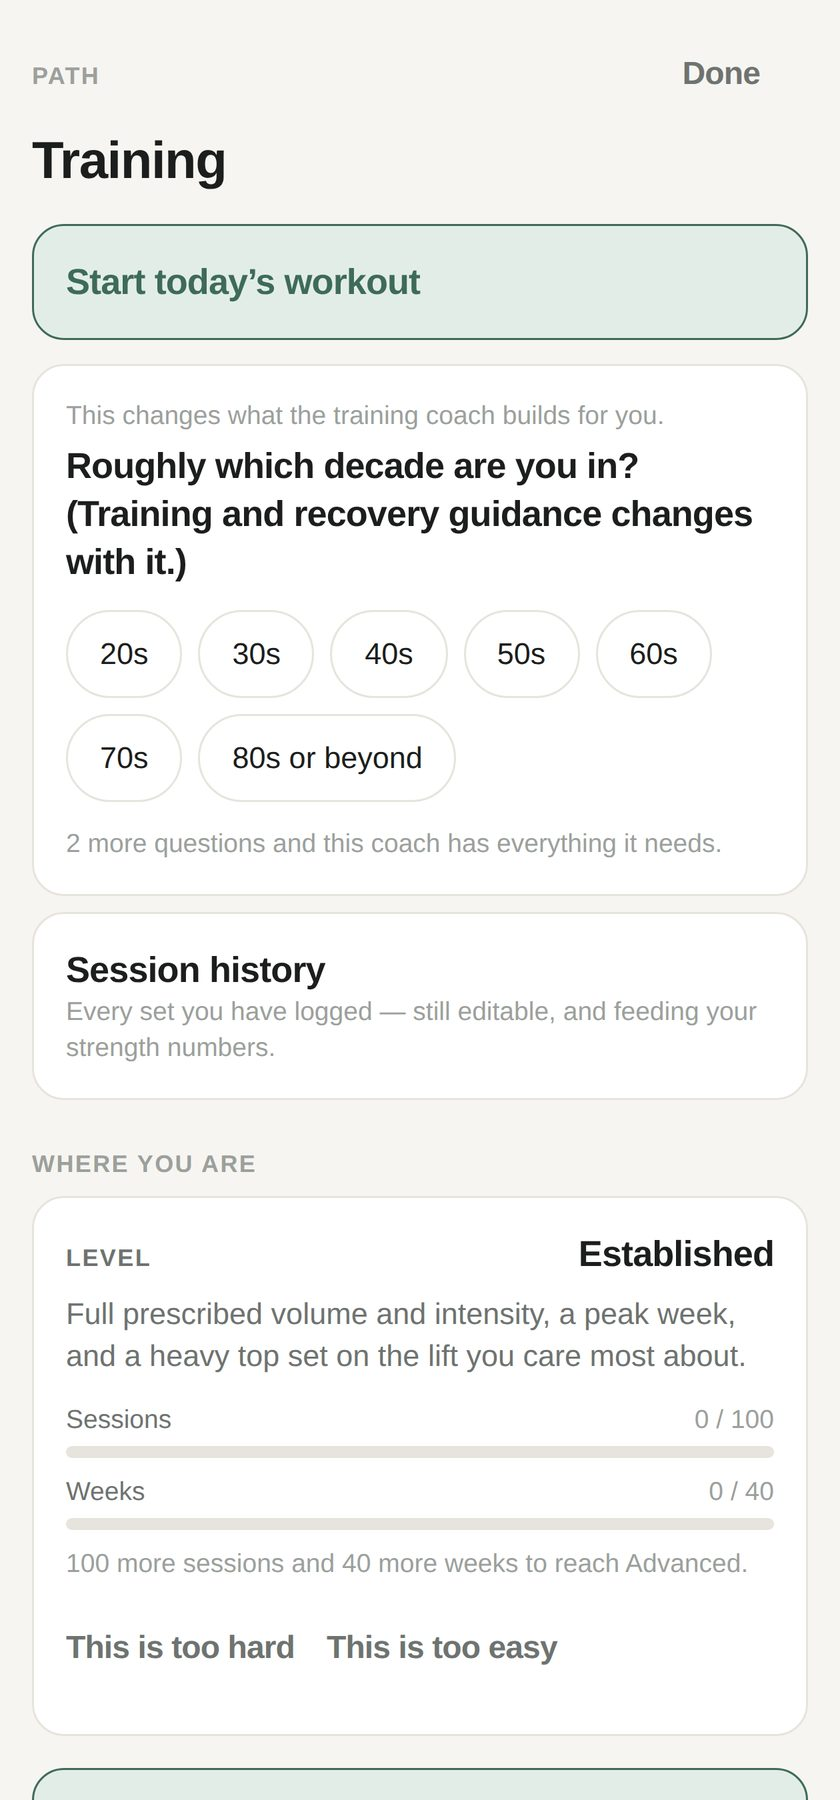
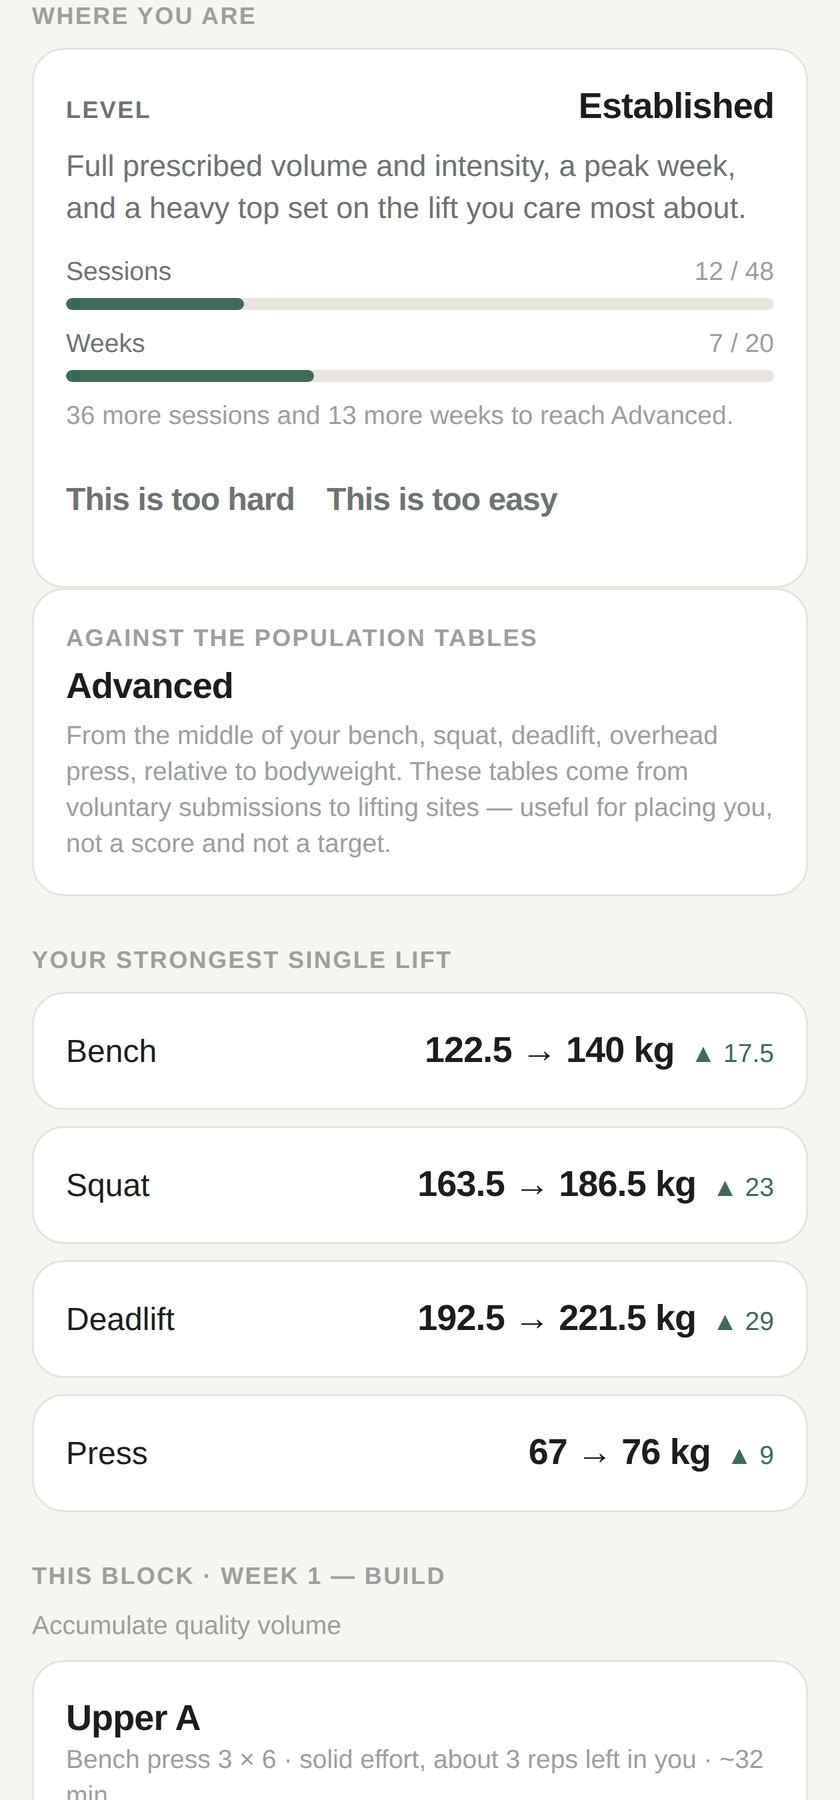
web: all eight app screenshots retaken from HEAD, Today back on the strip
Captured from a fresh web export of 7b7f690 with the App Store seed: the
same routes and states as before, Today included, which now shows the
look-ahead and readiness the app actually produces. The guard that blocked
the stale Today capture goes with it; docs/APP_SCREENSHOTS.md records the
commit, route and state of every file so the next staleness check has
something to check against, and notes that the sleep-debt line on Today
ships over the air once 1.0 is approved.

Lint clean; 22/22 web guardrails pass.

Claude-Session: https://claude.ai/code/session_01J2Eq9uBzmbDrm1rEhJBvWu

diff --git a/web/app/page.tsx b/web/app/page.tsx
@@ -306,6 +306,7 @@ function BehaviourLoop() {
 }
 
 const appScreens = [
+  { file: "app-today", label: "Today", note: "The day, already decided." },
   { file: "app-coaches", label: "Seven coaches", note: "One profile, seven specialists." },
   { file: "app-training", label: "Training", note: "The block, and where you are in it." },
   { file: "app-workout", label: "The session", note: "Sets tick, rests time themselves." },

diff --git a/docs/APP_SCREENSHOTS.md b/docs/APP_SCREENSHOTS.md
@@ -1,37 +1,51 @@
 # Where these screenshots came from, and when
 
-Captured by the app session and handed over in `014175c`. They are product
-evidence, so the rule is the same one the copy follows: if the app changes what
-a screen says, the screenshot is wrong until it is retaken.
+They are product evidence, so the rule is the same one the copy follows: if
+the app changes what a screen says, the screenshot is wrong until it is
+retaken. Every file under `web/public/images/app/` is listed here with the
+commit it was captured from. A capture with no provenance cannot be checked
+for staleness, and staleness is invisible: nothing fails, the page just
+quietly shows a product that no longer exists.
 
-## Pulled
+## Current set — captured 2026-09-04 from `7b7f690`
 
-**`app-today.jpg` is not on the site.** It shows the look-ahead card reading
-"Nothing to look forward to this week. Saturday morning is open — dinner
-somewhere new?", which is wrong twice and was fixed in the app after the
-capture was taken:
+All eight retaken together from a fresh `expo export --platform web` of that
+commit, rendered by headless Chromium at 420×900 CSS pixels, 3× scale,
+`Australia/Sydney`, then downsampled to 840×1800 JPEG. State was seeded into
+`localStorage` before first paint (the same seed as the App Store
+screenshots: onboarded, Plus on, sex at birth recorded, twelve logged
+workouts across six weeks, the recovery path not yet started for the
+habits screen). Every sentence in them is the app's own output.
 
-- `ac1b51f` — an evening idea had been placed in a morning gap. Ideas now carry
-  the slot they fit, and the weekend-gap suggestion asks for morning ones.
-- `7d8446b` — the line opened on an absence and then named the thing it had
-  just called absent.
+| File | Route and state | Shows |
+|---|---|---|
+| `app-today.jpg` | `/today` | The morning readout with the sleep-debt line, the pattern suggestion, the Now card |
+| `app-coaches.jpg` | `/life` | The profile question and the paths list |
+| `app-training.jpg` | `/path/training`, scrolled to "This block" | The four-session block and Start today's session |
+| `app-workout.jpg` | Start today's workout from the training hub | The session with the sleep row unanswered |
+| `app-workout-autoreg.jpg` | Same, after tapping "Under 6h" | "Short night — main work stays, accessories rest today." |
+| `app-level-card.jpg` | `/path/training`, scrolled to "Where you are" | Level, sessions and weeks toward the next, population tables, strongest lifts |
+| `app-library.jpg` | `/library` | Morning light with its evidence grade and safety line |
+| `app-recovery.jpg` | `/path/recovery`, path not started | The habit picker |
 
-That sentence now exists in the codebase only as a regression test
-(`src/features/sim/__tests__/tone.test.ts`), which is the right place for it.
-Publishing a screenshot of a fixed bug is worse than publishing no screenshot:
-it is evidence, and it was evidence of a defect.
+One honesty note for the website session. `app-today.jpg` shows the
+sleep-debt paragraph ("Sleep debt 3h 45m over the last 13 nights…"), which
+is in the code at `7b7f690` and is part of the over-the-air update held
+back until Apple approves 1.0. The App Store build in review (16) does not
+show it yet; the update ships the day the approval lands. If the site goes
+live before that, the caption should not promise sleep debt as shipped, or
+the Today screen should wait for the update.
 
-The file is kept in the repository rather than deleted so the next capture can
-be compared against it. It is simply not referenced by any page.
+## History
 
-## Still published
+`app-today.jpg` was pulled from the strip on 2026-09-04 because its capture
+predated two app fixes (`ac1b51f`, `7d8446b`) and showed the look-ahead
+card reading "Nothing to look forward to this week. Saturday morning is
+open — dinner somewhere new?". The retake above replaces it; the guard in
+`web/tests/library-claims.test.mjs` that blocked the stale file was
+removed with the retake.
 
-The other seven are unaffected by those two fixes — none of them shows the
-look-ahead card.
-
-## Before adding a screenshot back
+## Before changing a screenshot
 
 Retake it from a build at or after the current `HEAD`, and record here which
-commit it came from. A screenshot with no provenance cannot be checked for
-staleness, and staleness is invisible: nothing fails, the page just quietly
-shows a product that no longer exists.
+commit it came from.
